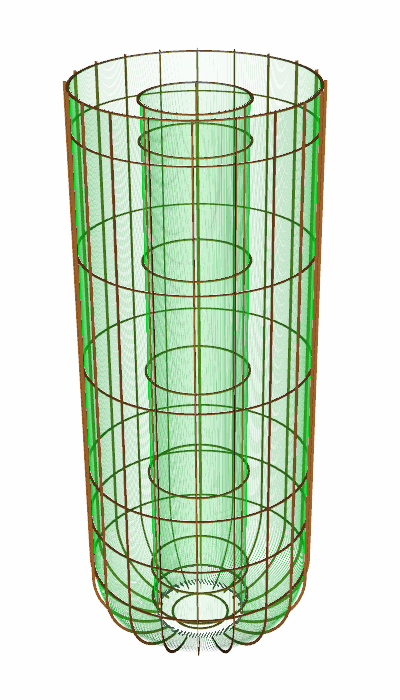
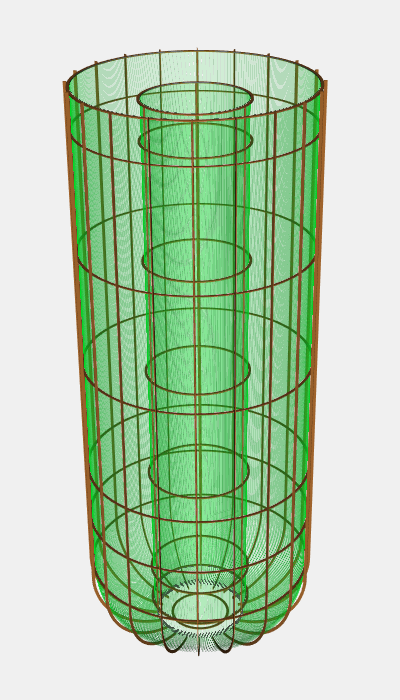
feat: share the color scheme with legend-pygeom-l1000
The two geometries used different colors for the parts they have in
common, which makes them hard to compare side by side. Collect the RGBA
values in a COLORS dictionary and take the values from
legend-pygeom-l1000 (commit 4c3d09e there).

The water tank wall and the cryostat were hidden outright; they now get
a very low alpha instead, so they show up as a hint of a shell without
covering the array. The renderings in the documentation do not show the
cryostat, so they hide it themselves. The PMT air volume is hidden, or
it would fill the PMT no matter how transparent the glass around it is.

Two key names differ from l1000 on purpose: its Tyvek reflector is
VM2000 here, and the WLSR foil is Tetratex. The fiber coating keeps the
l200 value, since the shroud here is far denser than the l1000 curtain
and the l1000 alpha would hide the array behind it.

Assisted-by: Generative AI

diff --git a/src/pygeoml200/watertank.py b/src/pygeoml200/watertank.py
@@ -12,6 +12,7 @@ from pygeomtools import RemageDetectorInfo
 from scipy.spatial.transform import Rotation
 
 from . import cryo, materials
+from .utils import COLORS
 
 pmt_id = np.array(
     [
@@ -244,7 +245,7 @@ def construct_tank(reg: g4.Registry, tank_material: g4.Material) -> g4.LogicalVo
     )
 
     tank_lv = g4.LogicalVolume(water_tank_wall, tank_material, "water_tank_lv", reg)
-    tank_lv.pygeom_color_rgba = False
+    tank_lv.pygeom_color_rgba = COLORS["steel"]
     return tank_lv
 
 
@@ -260,7 +261,7 @@ def place_tank(
 def construct_water(reg: g4.Registry, water_material: g4.Material) -> g4.LogicalVolume:
     water_solid = g4.solid.Tubs("water_solid", inner_radius, water_radius, water_height, 0, 2 * pi, reg)
     water_lv = g4.LogicalVolume(water_solid, water_material, "water_lv", reg)
-    water_lv.pygeom_color_rgba = [0, 0, 1, 0.2]
+    water_lv.pygeom_color_rgba = COLORS["water"]
     return water_lv
 
 
@@ -278,7 +279,9 @@ def construct_air_buffer(reg: g4.Registry, air_material: g4.Material) -> g4.Logi
         2 * pi,
         reg,
     )
-    return g4.LogicalVolume(air_buffer, air_material, "air_buffer_lv", reg)
+    air_buffer_lv = g4.LogicalVolume(air_buffer, air_material, "air_buffer_lv", reg)
+    air_buffer_lv.pygeom_color_rgba = COLORS["air"]
+    return air_buffer_lv
 
 
 def place_air_buffer(
@@ -349,6 +352,7 @@ def construct_pillbox(reg: g4.Registry, pillbox_material: g4.Material | str) -> 
         reg,
     )
     pillbox_lv = g4.LogicalVolume(pillbox, pillbox_material, "pillbox_lv", reg)
+    pillbox_lv.pygeom_color_rgba = COLORS["steel"]
 
     return pillbox_lv, manhole_pillbox, manhole_rotation, man_hole_offset
 
@@ -383,6 +387,7 @@ def insert_vm2000(
     water_tank_reflection_foil_tube_lv = g4.LogicalVolume(
         water_tank_reflection_foil_tube, vm2000_material, "water_tank_reflection_foil_tube_lv", reg
     )
+    water_tank_reflection_foil_tube_lv.pygeom_color_rgba = COLORS["vm2000"]
     water_tank_reflection_foil_tube_pv = g4.PhysicalVolume(
         [0, 0, 0],
         [0, 0, 0],
@@ -405,6 +410,7 @@ def insert_vm2000(
     water_tank_reflection_foil_bottom_lv = g4.LogicalVolume(
         water_tank_reflection_foil_bottom, vm2000_material, "water_tank_reflection_foil_bottom_lv", reg
     )
+    water_tank_reflection_foil_bottom_lv.pygeom_color_rgba = COLORS["vm2000"]
     water_tank_reflection_foil_bottom_pv = g4.PhysicalVolume(
         [0, 0, 0],
         [0, 0, bottom_foil_offset],
@@ -435,6 +441,7 @@ def insert_vm2000(
     pillbox_outer_reflection_foil_tube_lv = g4.LogicalVolume(
         pillbox_outer_reflection_foil_tube, vm2000_material, "pillbox_outer_reflection_foil_tube_lv", reg
     )
+    pillbox_outer_reflection_foil_tube_lv.pygeom_color_rgba = COLORS["vm2000"]
     pillbox_outer_reflection_foil_tube_pv = g4.PhysicalVolume(
         [0, 0, 0],
         [0, 0, pillbox_offset],
@@ -464,6 +471,7 @@ def insert_vm2000(
     pillbox_inner_reflection_foil_tube_lv = g4.LogicalVolume(
         pillbox_inner_reflection_foil_tube, vm2000_material, "pillbox_inner_reflection_foil_tube_lv", reg
     )
+    pillbox_inner_reflection_foil_tube_lv.pygeom_color_rgba = COLORS["vm2000"]
     pillbox_inner_reflection_foil_tube_pv = g4.PhysicalVolume(
         [0, 0, 0],
         [0, 0, pillbox_offset + 1e-9],
@@ -486,6 +494,7 @@ def insert_vm2000(
     pillbox_reflection_foil_top_lv = g4.LogicalVolume(
         pillbox_reflection_foil_top, vm2000_material, "pillbox_reflection_foil_top_lv", reg
     )
+    pillbox_reflection_foil_top_lv.pygeom_color_rgba = COLORS["vm2000"]
     pillbox_reflection_foil_top_pv = g4.PhysicalVolume(
         [0, 0, 0],
         [0, 0, bottom_foil_offset + cryo_bottom_height - reflective_foil_thickness],
@@ -517,6 +526,7 @@ def insert_vm2000(
     cryo_reflection_foil_lv = g4.LogicalVolume(
         cryo_reflection_foil, vm2000_material, "cryo_reflection_foil_lv", reg
     )
+    cryo_reflection_foil_lv.pygeom_color_rgba = COLORS["vm2000"]
     cryo_reflection_foil_pv = g4.PhysicalVolume(
         [0, 0, 0],
         [0, 0, cryo_displacement_z],
@@ -621,6 +631,7 @@ def insert_pmts(
         reg,
     )
     pmt_steel_cone_lv = g4.LogicalVolume(pmt_steel_cone, pmt_steel_material, "pmt_steel_cone_lv", reg)
+    pmt_steel_cone_lv.pygeom_color_rgba = COLORS["steel"]
     g4.SkinSurface("pmt_cone_optical_surface", pmt_steel_cone_lv, optical_steel_surface, reg)
 
     # PMT encapsulation bottom for Cherenkov veto
@@ -634,6 +645,7 @@ def insert_pmts(
         reg,
     )
     pmt_steel_bottom_lv = g4.LogicalVolume(pmt_steel_bottom, pmt_steel_material, "pmt_steel_bottom_lv", reg)
+    pmt_steel_bottom_lv.pygeom_color_rgba = COLORS["steel"]
     g4.SkinSurface("pmt_bottom_optical_surface", pmt_steel_bottom_lv, optical_steel_surface, reg)
 
     def build_pmt(
@@ -671,6 +683,7 @@ def insert_pmts(
 
         # PMT first has acryl, then air, then borosilikat glass, then photocathode
         acryl_lv = g4.LogicalVolume(acryl, acryl_material, name_pmt_acryl_lv, reg)
+        acryl_lv.pygeom_color_rgba = COLORS["acrylic"]
         # Place at different height depending if this is a wall pmt which specifies a zpos
         g4.PhysicalVolume(
             [x_rot, y_rot, z_rot],
@@ -682,11 +695,14 @@ def insert_pmts(
         )
 
         pmt_air_lv = g4.LogicalVolume(pmt_air, pmt_air_material, name_pmt_air_lv, reg)
+        # the air would fill the PMT no matter how transparent the glass around it is
+        pmt_air_lv.pygeom_color_rgba = False
         g4.PhysicalVolume([0, 0, 0], [0, 0, 0], pmt_air_lv, name_pmt_air, acryl_lv, reg)
 
         borosilikat_lv = g4.LogicalVolume(
             pmt_borosilikat_glass, borosilicate_material, name_pmt_borosilikat_lv, reg
         )
+        borosilikat_lv.pygeom_color_rgba = COLORS["pmt_window"]
         g4.PhysicalVolume(
             [0, 0, 0],
             [0, 0, 0],
@@ -696,6 +712,7 @@ def insert_pmts(
             reg,
         )
         photocathode_lv = g4.LogicalVolume(photocathode, cathode_al, namephotocathode_lv, reg)
+        photocathode_lv.pygeom_color_rgba = COLORS["pmt_cathode"]
         if broken:
             g4.PhysicalVolume([0, 0, 0], [0, 0, 0], photocathode_lv, namephotocathode, borosilikat_lv, reg)
         else:

diff --git a/src/pygeoml200/fibers.py b/src/pygeoml200/fibers.py
@@ -13,6 +13,7 @@ from pygeomtools import RemageDetectorInfo
 from scipy.spatial.transform import Rotation
 
 from . import core, top
+from .utils import COLORS
 
 
 def place_fiber_modules(
@@ -612,7 +613,7 @@ class ModuleFactorySingleFibers(ModuleFactoryBase):
             self.b.registry,
         )
 
-        coating_lv.pygeom_color_rgba = [0, 1, 0.165, 0.07]  # 520 nm
+        coating_lv.pygeom_color_rgba = COLORS["fiber_coating"]
 
         return coating_lv
 
@@ -1007,7 +1008,7 @@ class ModuleFactorySegment(ModuleFactoryBase):
             self.b.registry,
         )
 
-        coating_lv.pygeom_color_rgba = [0, 1, 0.165, 0.07]  # 520 nm
+        coating_lv.pygeom_color_rgba = COLORS["fiber_coating"]
 
         return coating_lv
 

diff --git a/src/pygeoml200/utils.py b/src/pygeoml200/utils.py
@@ -11,6 +11,20 @@ from . import core
 
 log = logging.getLogger(__name__)
 
+COLORS = {
+    "steel": (0.5, 0.5, 0.5, 0.05),
+    "water": (0, 0, 1, 0.08),
+    "air": (0.1, 0.1, 0.1, 0.025),
+    "acrylic": (0.9, 0.9, 0.9, 0.05),
+    "vm2000": (0.9, 0.9, 0.9, 0.05),
+    "tetratex": (1, 1, 1, 0.1),
+    # 520 nm. The l200 shroud is far denser than the l1000 curtain, so it needs a lower
+    # alpha than l1000 uses to keep the array behind it visible.
+    "fiber_coating": (0, 1, 0.165, 0.07),
+    "pmt_window": (0.9, 0.8, 0.5, 0.05),
+    "pmt_cathode": (0.545, 0.271, 0.074, 0.05),
+}
+
 
 def _read_model(
     file: str, name: str, material: geant4.Material, b: core.InstrumentationData

diff --git a/docs/generate_docs_images.py b/docs/generate_docs_images.py
@@ -72,7 +72,8 @@ def export_image(fn: str, extra: dict) -> None:
     vis_scene = {
         "window_size": extra.get("window_size", [400, 700]),
         "default": vis_default,
-        "color_overrides": {"lar": False, **extra.get("overrides", {})},
+        # none of these renderings show the cryostat, which now carries a (faint) color of its own
+        "color_overrides": {"lar": False, "cryostat_steel": False, **extra.get("overrides", {})},
         "export_scale": 1,
         "export_and_exit": f"source/images/{fn}.png",
     }

diff --git a/src/pygeoml200/wlsr.py b/src/pygeoml200/wlsr.py
@@ -18,6 +18,7 @@ from math import pi
 import pyg4ometry.geant4 as g4
 
 from . import core, materials
+from .utils import COLORS
 
 wlsr_tpb_radius = 1374 / 2
 wlsr_ttx_thickness = 254 * 1e-3  # 254 um Tetratex foil
@@ -96,7 +97,7 @@ def place_wlsr(
         [0, 0, 0], [0, 0, 0], wlsr_ttx_lv, "wlsr_tetratex", wlsr_tpb_lv, b.registry
     )
 
-    wlsr_ttx_lv.pygeom_color_rgba = [1, 1, 1, 0.2]
+    wlsr_ttx_lv.pygeom_color_rgba = COLORS["tetratex"]
     wlsr_tpb_lv.pygeom_color_rgba = False
     wlsr_outer_lv.pygeom_color_rgba = False
 

diff --git a/src/pygeoml200/cryo.py b/src/pygeoml200/cryo.py
@@ -14,6 +14,8 @@ from math import pi
 import pyg4ometry.geant4 as g4
 from pygeomtools import RemageDetectorInfo
 
+from .utils import COLORS
+
 cryo_radius = 3976 / 2
 cryo_wall = 12
 cryo_tub_height = 3900
@@ -87,7 +89,7 @@ def place_cryostat(
     cryostat_pv = g4.PhysicalVolume(
         [0, 0, 0], [0, 0, cryostat_displacement_z], cryostat_lv, "cryostat_steel", wl, reg
     )
-    cryostat_lv.pygeom_color_rgba = False
+    cryostat_lv.pygeom_color_rgba = COLORS["steel"]
     return cryostat_pv
 
 
